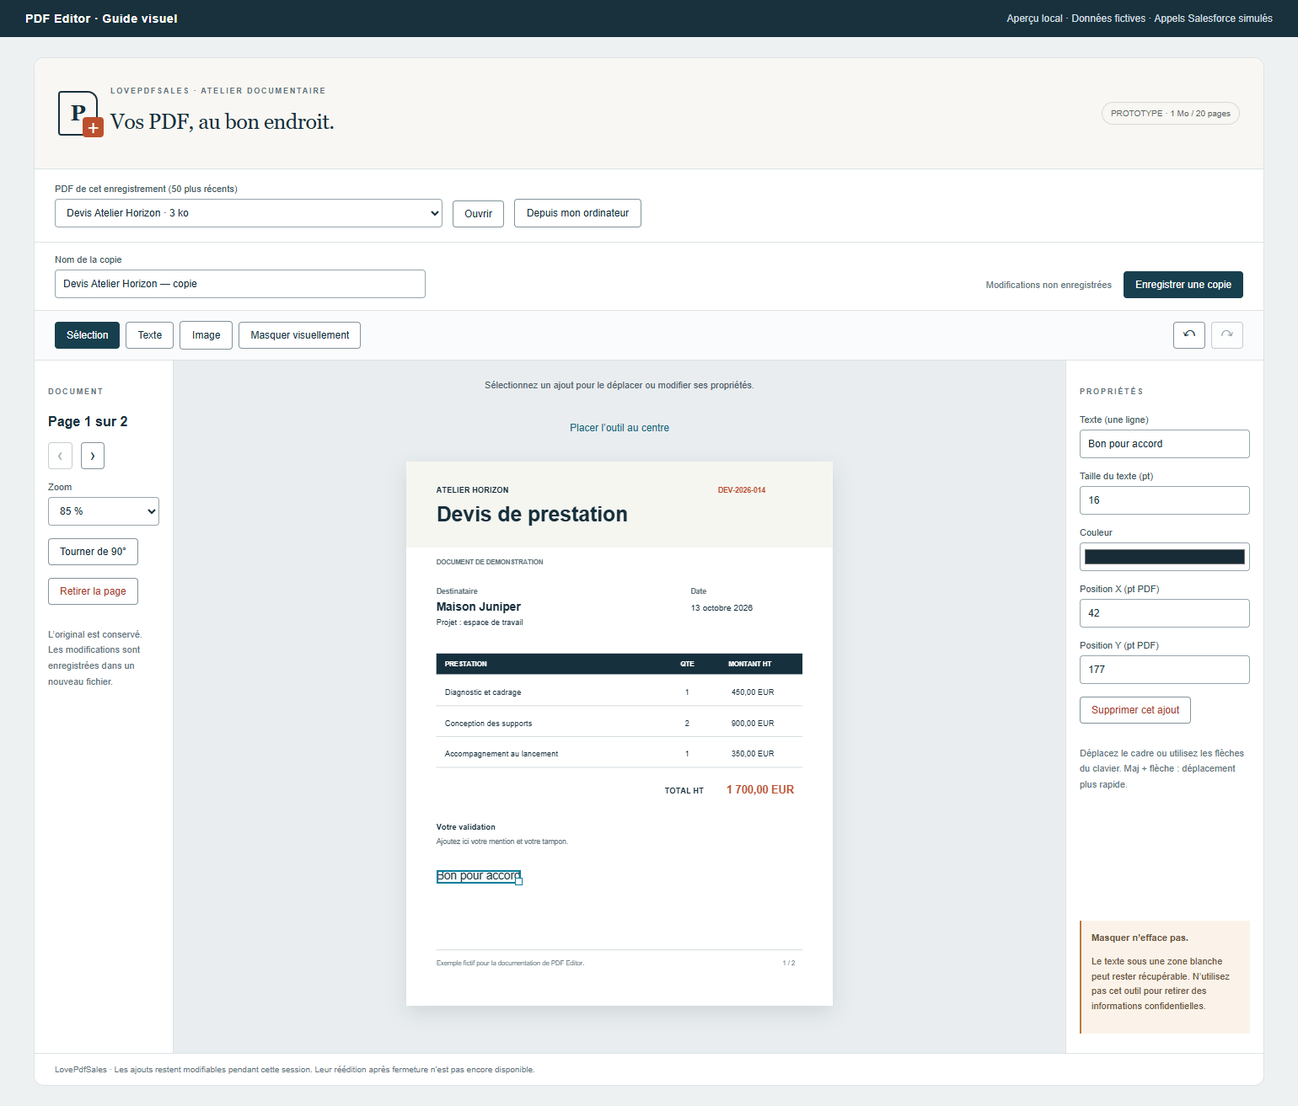
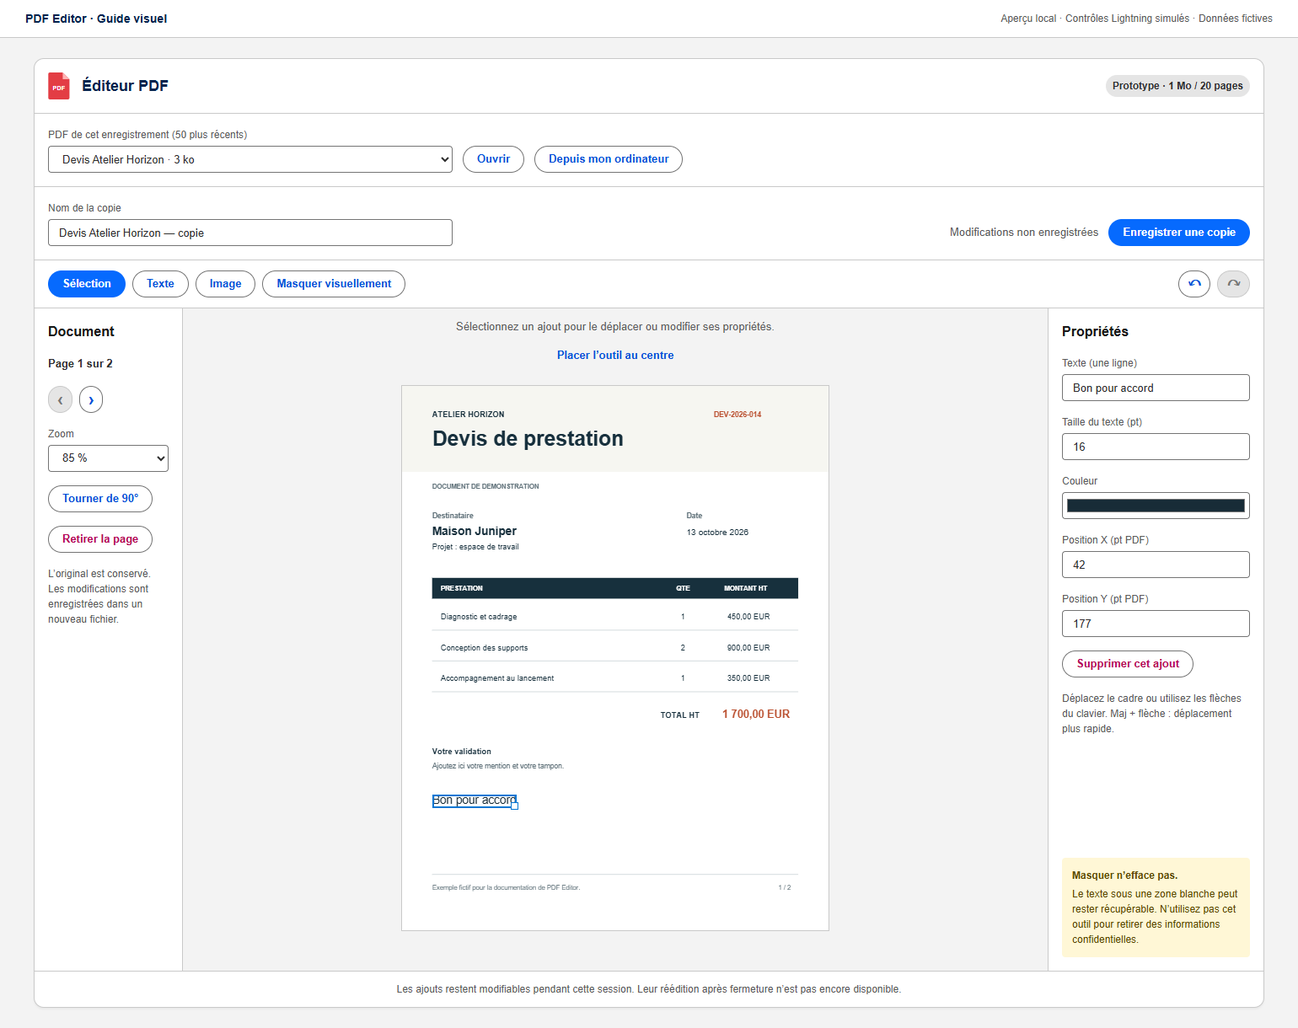
Align PDF editor with native Salesforce styling and refresh screenshots

diff --git a/force-app/main/default/lwc/pdfEditor/pdfEditor.css b/force-app/main/default/lwc/pdfEditor/pdfEditor.css
@@ -1,59 +1,69 @@
-:host { display: block; --ink: #18313c; --muted: #64747c; --line: #dce3e5; --accent: #bc502e; --slds-c-button-brand-color-background: #183f4e; --slds-c-button-brand-color-border: #183f4e; --slds-c-button-brand-color-background-hover: #102e39; }
-.editor { color: var(--ink); background: #fff; border: 1px solid var(--line); border-radius: 12px; overflow: hidden; font-family: 'Salesforce Sans', sans-serif; }
-.masthead { display: flex; align-items: center; justify-content: space-between; gap: 20px; padding: 25px 28px; background: #f8f7f3; border-bottom: 1px solid var(--line); }
-.brand { display: flex; align-items: center; gap: 15px; }
-.brand-mark { position: relative; display: grid; place-items: center; width: 43px; height: 49px; border: 2px solid var(--ink); border-radius: 4px 12px 4px 4px; font: bold 26px Georgia, serif; }
-.brand-mark span { position: absolute; right: -9px; bottom: -4px; background: var(--accent); color: white; padding: 0 5px; border-radius: 4px; font-size: 21px; }
-.eyebrow { font-size: 9px; font-weight: 700; letter-spacing: 1.8px; color: var(--muted); margin-bottom: 7px; }
-h1 { font: 25px Georgia, serif; letter-spacing: -.5px; }
-.badge { font-size: 10px; padding: 7px 10px; border: 1px solid #d7dad4; border-radius: 20px; white-space: nowrap; color: #5c665f; }
-.source-bar { display: flex; align-items: end; gap: 12px; padding: 17px 24px; border-bottom: 1px solid var(--line); }
-.source-picker { flex: 1; max-width: 460px; }
-.file-control { position: relative; display: inline-flex; align-items: center; justify-content: center; min-height: 32px; padding: 0 14px; border: 1px solid #82939b; border-radius: 4px; font-size: 12px; background: white; cursor: pointer; white-space: nowrap; overflow: hidden; }
-.file-control input { position: absolute; inset: 0; width: 100%; height: 100%; opacity: 0; cursor: pointer; }
-.file-control:focus-within { outline: 2px solid #0076a8; outline-offset: 2px; }
-.file-control:has(input:disabled) { opacity: .5; cursor: default; }
-.document-bar { display: flex; justify-content: space-between; align-items: end; gap: 20px; padding: 14px 24px; }
-.document-name { flex: 1; max-width: 440px; }
-.save-group { display: flex; align-items: center; gap: 14px; }
-.document-status { color: var(--muted); font-size: 11px; }
-.toolbar { display: flex; align-items: center; flex-wrap: wrap; gap: 7px; padding: 12px 24px; border-block: 1px solid var(--line); background: #fafbfc; }
+/* Base components own their appearance. Consume the org's global hooks for
+   the PDF workspace; never override SLDS component or global hooks. */
+:host {
+    display: block;
+    --pdf-surface: var(--slds-g-color-surface-container-1, #fff);
+    --pdf-canvas: var(--slds-g-color-surface-container-2, #f3f3f3);
+    --pdf-border: var(--slds-g-color-border-1, #c9c9c9);
+    --pdf-text: var(--slds-g-color-on-surface-2, #2e2e2e);
+    --pdf-muted: var(--slds-g-color-on-surface-1, #5c5c5c);
+    --pdf-accent: var(--slds-g-color-border-accent-1, #0176d3);
+    color: var(--pdf-text);
+    font-family: inherit;
+    font-size: 0.8125rem;
+    line-height: 1.5;
+}
+p { margin: 0; }
+.editor { background: var(--pdf-surface); }
+.source-bar, .document-bar { display: flex; align-items: end; flex-wrap: wrap; gap: var(--slds-g-spacing-3, 0.75rem); padding: var(--slds-g-spacing-4, 1rem); }
+.source-bar { border-block: 1px solid var(--pdf-border); }
+.source-picker { flex: 1; min-width: 15rem; max-width: 30rem; }
+.document-bar { justify-content: space-between; }
+.document-name { flex: 1; min-width: 15rem; max-width: 30rem; }
+.save-group { display: flex; align-items: center; flex-wrap: wrap; gap: var(--slds-g-spacing-3, 0.75rem); }
+.document-status, .muted, .session-note { color: var(--pdf-muted); }
+.toolbar { display: flex; align-items: center; flex-wrap: wrap; gap: var(--slds-g-spacing-2, 0.5rem); padding: var(--slds-g-spacing-3, 0.75rem) var(--slds-g-spacing-4, 1rem); border-block: 1px solid var(--pdf-border); }
 .toolbar-space { flex: 1; }
-.workspace { display: grid; grid-template-columns: 165px minmax(200px, 1fr) 235px; min-height: 580px; }
-.page-panel, .properties { padding: 23px 16px; display: flex; flex-direction: column; gap: 15px; }
-.page-panel { border-right: 1px solid var(--line); }
-.properties { border-left: 1px solid var(--line); }
-.page-controls { display: flex; gap: 10px; }
-.muted { color: var(--muted); font-size: 11px; line-height: 1.7; }
-.canvas-panel { background-color: #e9edef; background-image: radial-gradient(#ccd5d9 .7px, transparent .7px); background-size: 12px 12px; padding: 12px 0 24px; min-width: 0; position: relative; }
-.placement-hint { text-align: center; font-size: 11px; padding: 0 16px; min-height: 30px; color: #4d616c; }
-.center-action { display: block; text-align: center; margin-bottom: 12px; }
-.canvas-scroll { overflow: auto; max-height: 780px; padding: 12px 24px 32px; }
-.page-stage { position: relative; margin: 0 auto; background: white; box-shadow: 0 8px 24px #17303d20; }
+.workspace { display: grid; grid-template-columns: 11rem minmax(200px, 1fr) 16rem; min-height: 36rem; }
+.page-panel, .properties { padding: var(--slds-g-spacing-4, 1rem); display: flex; flex-direction: column; gap: var(--slds-g-spacing-4, 1rem); min-width: 0; }
+.page-panel { border-right: 1px solid var(--pdf-border); }
+.properties { border-left: 1px solid var(--pdf-border); }
+.panel-heading { margin: 0; font-size: 1rem; font-weight: 700; color: var(--slds-g-color-on-surface-3, #181818); }
+.page-controls { display: flex; gap: var(--slds-g-spacing-2, 0.5rem); }
+.muted, .session-note { font-size: 0.75rem; }
+.canvas-panel { background: var(--pdf-canvas); padding-block: var(--slds-g-spacing-3, 0.75rem) var(--slds-g-spacing-4, 1rem); min-width: 0; }
+.placement-hint { text-align: center; padding-inline: var(--slds-g-spacing-4, 1rem); color: var(--pdf-muted); }
+.center-action { display: block; text-align: center; margin-block: var(--slds-g-spacing-2, 0.5rem); }
+.canvas-scroll { overflow: auto; max-height: 49rem; padding: var(--slds-g-spacing-3, 0.75rem) var(--slds-g-spacing-4, 1rem) var(--slds-g-spacing-6, 2rem); }
+/* The PDF paper keeps its original colors independently of the org theme. */
+.page-stage { position: relative; margin: 0 auto; background: #fff; box-shadow: 0 0 0 1px var(--pdf-border); }
 canvas { display: block; }
 .element { position: absolute; background: transparent; border: 1px solid transparent; padding: 0; cursor: move; touch-action: none; }
-.element:hover { border: 1px dashed #097e9c; background: #168daf0a; }
-.element.selected { border: 2px solid #087d9b; background: #0b80920b; }
-.element:focus-visible { outline: 3px solid #bc502e; outline-offset: 3px; }
-.element.selected::after { content: ''; position: absolute; width: 7px; height: 7px; right: -4px; bottom: -4px; background: #fff; border: 1px solid #087d9b; }
-.property-empty { margin: 16px 0 30px; font-size: 13px; line-height: 1.7; color: var(--muted); }
-.property-empty span { font-size: 34px; color: #82959e; }
-.mask-note { margin-top: auto; background: #fbf3e9; border-left: 2px solid #bc7940; padding: 12px; font-size: 11px; line-height: 1.6; color: #6c533b; }
-.mask-note strong { display: block; margin-bottom: 4px; }
-.notice { padding: 13px 24px; font-size: 13px; display: flex; align-items: center; justify-content: space-between; gap: 10px; }
-.error { background: #fff0ed; color: #9d3226; border-bottom: 1px solid #eac8c1; }
-.success { background: #e9f4ee; color: #246744; }
-.loading, .render-status { padding: 6px 24px; font-size: 12px; background: #e6f0f6; color: #164d67; }
-.empty-state { padding: 60px 24px; text-align: center; background: linear-gradient(160deg, #fff 35%, #f5f5f0); }
-.empty-state h2 { font: 38px/1.15 Georgia, serif; letter-spacing: -1px; margin: 15px 0; }
-.empty-state > p:not(.eyebrow) { color: var(--muted); line-height: 1.8; font-size: 13px; }
-.paper-symbol { position: relative; width: 74px; height: 90px; border: 1px solid #aebdc4; border-radius: 3px 18px 3px 3px; margin: 0 auto 30px; padding: 13px 10px; text-align: left; transform: rotate(-6deg); box-shadow: 8px 8px 0 #ecede7; }
-.paper-symbol span { font-size: 10px; font-weight: 700; color: var(--accent); letter-spacing: 1px; }
-.paper-symbol i { display: block; height: 2px; background: #c4cfd4; margin: 9px 0; }
-.paper-symbol i:last-of-type { width: 65%; }
-.paper-symbol b { position: absolute; right: -12px; bottom: 7px; width: 28px; height: 28px; background: var(--ink); color: white; border-radius: 50%; text-align: center; font-size: 22px; }
-.capabilities { display: flex; justify-content: center; flex-wrap: wrap; gap: 20px; font-size: 11px; margin-top: 26px; }
-.capabilities span::before { content: '✓'; color: #39735e; margin-right: 6px; }
-footer { padding: 13px 24px; border-top: 1px solid var(--line); color: var(--muted); font-size: 10px; }
-@media (max-width: 1050px) { .workspace { grid-template-columns: 145px minmax(180px, 1fr); } .properties { grid-column: 1 / -1; border-top: 1px solid var(--line); border-left: 0; display: grid; grid-template-columns: repeat(3, minmax(100px, 1fr)); } .save-group { flex-direction: column; align-items: end; gap: 5px; } .badge { display: none; } }
-@media (max-width: 650px) { .masthead, .source-bar, .document-bar { padding: 16px; flex-wrap: wrap; } .source-picker, .document-name { flex-basis: 100%; max-width: none; } .workspace { grid-template-columns: 1fr; } .page-panel { flex-direction: row; flex-wrap: wrap; border-right: 0; } .page-panel .muted { display: none; } .properties { grid-template-columns: 1fr 1fr; } .toolbar { padding: 10px 16px; } h1 { font-size: 22px; } }
+.element:hover { border: 1px dashed var(--pdf-accent); }
+.element.selected { border: 2px solid var(--pdf-accent); }
+.element:focus-visible { outline: 2px solid var(--pdf-accent); outline-offset: 3px; }
+.element.selected::after { content: ''; position: absolute; width: 7px; height: 7px; right: -4px; bottom: -4px; background: var(--pdf-surface); border: 1px solid var(--pdf-accent); }
+.property-empty { color: var(--pdf-muted); }
+.mask-note { margin-top: auto; background: var(--slds-g-color-warning-container-1, #fff7d6); color: var(--slds-g-color-on-warning-1, #5c4b00); border-radius: var(--slds-g-radius-border-2, 0.25rem); padding: var(--slds-g-spacing-3, 0.75rem); font-size: 0.75rem; }
+.mask-note strong { display: block; margin-bottom: var(--slds-g-spacing-1, 0.25rem); }
+.notice { padding: var(--slds-g-spacing-3, 0.75rem) var(--slds-g-spacing-4, 1rem); display: flex; flex-wrap: wrap; align-items: center; justify-content: space-between; gap: var(--slds-g-spacing-2, 0.5rem); background: var(--slds-g-color-info-container-1, #eef4ff); color: var(--slds-g-color-on-info-1, #014486); }
+.error { background: var(--slds-g-color-error-container-1, #fef1ee); color: var(--slds-g-color-on-error-1, #8e030f); }
+.success { background: var(--slds-g-color-success-container-1, #ebf7e6); color: var(--slds-g-color-on-success-1, #194e31); }
+.loading, .render-status { padding: var(--slds-g-spacing-2, 0.5rem) var(--slds-g-spacing-4, 1rem); color: var(--pdf-muted); }
+.empty-state { padding: var(--slds-g-spacing-8, 4rem) var(--slds-g-spacing-4, 1rem); text-align: center; }
+.empty-state h2 { font-size: 1.25rem; font-weight: 700; color: var(--slds-g-color-on-surface-3, #181818); margin-block: var(--slds-g-spacing-4, 1rem) var(--slds-g-spacing-2, 0.5rem); }
+.empty-state p { color: var(--pdf-muted); }
+.capabilities { display: flex; justify-content: center; flex-wrap: wrap; gap: var(--slds-g-spacing-2, 0.5rem); margin-top: var(--slds-g-spacing-4, 1rem); }
+@media (max-width: 1050px) {
+    .workspace { grid-template-columns: 11rem minmax(180px, 1fr); }
+    .properties { grid-column: 1 / -1; border-top: 1px solid var(--pdf-border); border-left: 0; display: grid; grid-template-columns: repeat(3, minmax(100px, 1fr)); align-items: start; }
+    .properties .panel-heading, .mask-note { grid-column: 1 / -1; }
+    .mask-note { margin-top: 0; }
+}
+@media (max-width: 650px) {
+    .source-picker, .document-name { flex-basis: 100%; min-width: 0; max-width: none; }
+    .workspace { grid-template-columns: minmax(0, 1fr); }
+    .page-panel { flex-direction: row; align-items: center; flex-wrap: wrap; border-right: 0; border-bottom: 1px solid var(--pdf-border); }
+    .page-panel .panel-heading, .page-panel .muted { flex-basis: 100%; }
+    .properties { grid-template-columns: minmax(0, 1fr); }
+}

diff --git a/force-app/main/default/lwc/pdfEditor/pdfEditor.html b/force-app/main/default/lwc/pdfEditor/pdfEditor.html
@@ -1,9 +1,7 @@
 <template>
-    <section class="editor" aria-label="LovePdfSales — Éditeur PDF">
-        <header class="masthead">
-            <div class="brand"><span class="brand-mark" aria-hidden="true">P<span>+</span></span><div><p class="eyebrow">LOVEPDFSALES · ATELIER DOCUMENTAIRE</p><h1>Vos PDF, au bon endroit.</h1></div></div>
-            <span class="badge">PROTOTYPE · 1 Mo / 20 pages</span>
-        </header>
+    <lightning-card title="Éditeur PDF" icon-name="doctype:pdf">
+        <lightning-badge slot="actions" label="Prototype · 1 Mo / 20 pages"></lightning-badge>
+        <section class="editor" aria-label="Éditeur PDF">
         <div lwc:if={message} class="notice error" role="alert">{message}</div>
         <div lwc:if={success} class="notice success" role="status">{success}<lightning-button lwc:if={savedDocumentId} label="Voir la copie" variant="base" onclick={handleViewSaved}></lightning-button></div>
         <div lwc:if={busy} class="loading" role="status">Traitement en cours…</div>
@@ -12,7 +10,8 @@
         <div class="source-bar">
             <div class="source-picker"><lightning-combobox label="PDF de cet enregistrement (50 plus récents)" placeholder="Choisir un fichier Salesforce" value={selectedFile} options={files} onchange={handleFileSelection} disabled={disabled}></lightning-combobox></div>
             <lightning-button label="Ouvrir" onclick={handleOpenSalesforce} disabled={openDisabled}></lightning-button>
-            <label class="file-control">Depuis mon ordinateur<input type="file" accept="application/pdf,.pdf" onchange={handleLocalFile} disabled={disabled} aria-label="Ouvrir un PDF depuis mon ordinateur" /></label>
+            <lightning-button label="Depuis mon ordinateur" icon-name="utility:upload" onclick={handleChooseLocalFile} disabled={disabled}></lightning-button>
+            <input class="local-file" type="file" accept="application/pdf,.pdf" onchange={handleLocalFile} disabled={disabled} aria-label="Ouvrir un PDF depuis mon ordinateur" hidden />
         </div>
         <template lwc:if={hasDocument}>
             <div class="document-bar">
@@ -22,7 +21,8 @@
             <div class="toolbar" role="group" aria-label="Outils d’édition">
                 <lightning-button label="Sélection" data-tool="select" variant={selectVariant} onclick={handleTool} disabled={disabled}></lightning-button>
                 <lightning-button label="Texte" data-tool="text" variant={textVariant} onclick={handleTool} disabled={disabled}></lightning-button>
-                <label class="file-control small">Image<input type="file" accept="image/png,image/jpeg" onchange={handleImage} disabled={disabled} aria-label="Ajouter une image PNG ou JPEG" /></label>
+                <lightning-button label="Image" icon-name="utility:image" onclick={handleChooseImage} disabled={disabled}></lightning-button>
+                <input class="image-file" type="file" accept="image/png,image/jpeg" onchange={handleImage} disabled={disabled} aria-label="Ajouter une image PNG ou JPEG" hidden />
                 <lightning-button label="Masquer visuellement" data-tool="mask" variant={maskVariant} onclick={handleTool} disabled={disabled}></lightning-button>
                 <span class="toolbar-space"></span>
                 <lightning-button-icon icon-name="utility:undo" alternative-text="Annuler" onclick={handleUndo} disabled={undoDisabled}></lightning-button-icon>
@@ -30,7 +30,7 @@
             </div>
             <div class="workspace">
                 <aside class="page-panel" aria-label="Navigation des pages">
-                    <p class="eyebrow">DOCUMENT</p><strong>{pageLabel}</strong>
+                    <h2 class="panel-heading">Document</h2><strong>{pageLabel}</strong>
                     <div class="page-controls"><lightning-button-icon icon-name="utility:chevronleft" alternative-text="Page précédente" onclick={handlePrevious} disabled={previousDisabled}></lightning-button-icon><lightning-button-icon icon-name="utility:chevronright" alternative-text="Page suivante" onclick={handleNext} disabled={nextDisabled}></lightning-button-icon></div>
                     <lightning-combobox label="Zoom" value={zoomValue} options={zoomOptions} onchange={handleZoom} disabled={disabled}></lightning-combobox>
                     <lightning-button label="Tourner de 90°" onclick={handleRotate} disabled={disabled}></lightning-button>
@@ -51,7 +51,7 @@
                     </div>
                 </div>
                 <aside class="properties" aria-label="Propriétés de l’ajout sélectionné">
-                    <p class="eyebrow">PROPRIÉTÉS</p>
+                    <h2 class="panel-heading">Propriétés</h2>
                     <template lwc:if={selected}>
                         <template lwc:if={selectedIsText}>
                             <lightning-input label="Texte (une ligne)" value={selected.text} data-property="text" maxlength="200" oncommit={handleProperty} disabled={disabled}></lightning-input>
@@ -67,14 +67,21 @@
                         <lightning-button label="Supprimer cet ajout" variant="destructive-text" onclick={handleRemove} disabled={disabled}></lightning-button>
                         <p class="muted">Déplacez le cadre ou utilisez les flèches du clavier. Maj + flèche : déplacement plus rapide.</p>
                     </template>
-                    <template lwc:else><div class="property-empty"><span aria-hidden="true">↖</span><p>Sélectionnez un ajout sur la page pour le modifier.</p></div></template>
+                    <template lwc:else><p class="property-empty">Sélectionnez un ajout sur la page pour le modifier.</p></template>
                     <div class="mask-note"><strong>Masquer n’efface pas.</strong><p>Le texte sous une zone blanche peut rester récupérable. N’utilisez pas cet outil pour retirer des informations confidentielles.</p></div>
                 </aside>
             </div>
         </template>
         <template lwc:else>
-            <div class="empty-state"><div class="paper-symbol" aria-hidden="true"><span>PDF</span><i></i><i></i><i></i><b>+</b></div><p class="eyebrow">DE L’IDÉE AU DOCUMENT</p><h2>Une note. Un logo.<br />Votre document, complété.</h2><p>Ouvrez un PDF, placez vos ajouts et retrouvez<br />la copie dans les fichiers Salesforce.</p><div class="capabilities"><span>Texte &amp; images</span><span>Rotation des pages</span><span>Original conservé</span></div></div>
+            <div class="empty-state">
+                <lightning-icon icon-name="doctype:pdf" size="large" alternative-text="Document PDF"></lightning-icon>
+                <h2>Ouvrir un document PDF</h2>
+                <p>Sélectionnez un fichier de cet enregistrement ou importez un PDF depuis votre ordinateur.</p>
+                <p>Ajoutez du texte et des images, puis enregistrez une copie dans Salesforce Files.</p>
+                <div class="capabilities"><lightning-badge label="Texte et images"></lightning-badge><lightning-badge label="Rotation des pages"></lightning-badge><lightning-badge label="Original conservé"></lightning-badge></div>
+            </div>
         </template>
-        <footer>LovePdfSales · Les ajouts restent modifiables pendant cette session. Leur réédition après fermeture n’est pas encore disponible.</footer>
-    </section>
+        </section>
+        <p slot="footer" class="session-note">Les ajouts restent modifiables pendant cette session. Leur réédition après fermeture n’est pas encore disponible.</p>
+    </lightning-card>
 </template>

diff --git a/force-app/main/default/lwc/pdfEditor/pdfEditor.js b/force-app/main/default/lwc/pdfEditor/pdfEditor.js
@@ -152,6 +152,12 @@ export default class PdfEditor extends NavigationMixin(LightningElement) {
     }
 
     handleFileSelection(event) { this.selectedFile = event.detail.value; }
+    handleChooseLocalFile() {
+        if (!this.disabled) this.template.querySelector('.local-file').click();
+    }
+    handleChooseImage() {
+        if (!this.disabled) this.template.querySelector('.image-file').click();
+    }
     async handleOpenSalesforce() {
         if (this.disabled || !await this.confirmDiscard()) return;
         this.busy = true;

diff --git a/docs/VALIDATION_PROTOTYPE.md b/docs/VALIDATION_PROTOTYPE.md
@@ -45,3 +45,11 @@ Le premier lot livre l’enrichissement et la sauvegarde d’une copie. L’édi
 Les captures de `docs/screenshots/` sont produites avec `npm run docs:screenshots` : le véritable composant LWC et le bundle PDF s’exécutent ensemble dans Edge, avec des contrôles Lightning simplifiés et des appels Apex simulés. Le script ouvre un devis fictif, ajoute et repositionne une mention et un tampon, puis vérifie la production d’un PDF lors de la sauvegarde simulée. Aucune organisation Salesforce n’est appelée.
 
 Ce parcours a mis en évidence une incompatibilité avec la méthode `convertToViewportRectangle`, absente du viewport PDF.js utilisé. Le composant calcule désormais son cadre de sélection à partir de deux appels à `convertToViewportPoint`. La compilation LWC, les quatre tests du modèle et les cinq tests d’interface ont été relancés avec succès après cette correction. La recette sous Lightning Web Security reste distincte.
+
+## Alignement visuel Salesforce
+
+Le bandeau personnalisé, la police décorative, la palette propre à l’éditeur et les surcharges `--slds-c-button-*` ont été retirés. La carte, les badges, les icônes et les boutons de sélection de fichiers utilisent désormais les composants Lightning natifs. Le CSS des panneaux PDF référence les hooks globaux sémantiques du thème, avec des valeurs de repli. Aucun hook global Salesforce n’est redéfini par le composant.
+
+Après cette refonte : compilation LWC réussie, 4 tests du modèle et 5 tests LWC réussis. Les quatre captures du README ont été régénérées avec le parcours complet texte, image et sauvegarde simulée. Les deux boutons de sélection de fichiers ouvrent le dialogue du navigateur ; un PDF local est également chargé. Le parcours vérifie l’absence de débordement horizontal de la page à 1 024 et 640 pixels de largeur.
+
+Les adaptateurs de documentation donnent un aperçu du placement des contrôles ; ils ne reproduisent pas intégralement les composants Salesforce. La validation Apex indiquée plus haut est antérieure à cette refonte. Le rendu natif sous Cosmos/SLDS 2, les personnalisations de marque et la navigation clavier dans les contrôles natifs doivent être vérifiés en organisation cible.

diff --git a/README.md b/README.md
@@ -2,9 +2,17 @@
 
 Prototype d’éditeur PDF en Lightning Web Component. Il permet de compléter un PDF depuis une page d’enregistrement Salesforce, puis d’enregistrer **une copie** dans Salesforce Files.
 
+## Charte Salesforce et SLDS 2
+
+L’interface utilise les composants natifs `lightning-card`, `lightning-button`, `lightning-button-icon`, `lightning-input`, `lightning-combobox`, `lightning-badge` et `lightning-icon`. Leur apparence est fournie par Salesforce, selon le thème de l’organisation. La police est héritée de la page ; aucune couleur de marque ni surcharge `--slds-c-*` n’est imposée aux contrôles.
+
+Les panneaux, séparateurs et cadres de sélection du PDF consomment les **global styling hooks SLDS** (`--slds-g-*`) pour suivre les couleurs et espacements du thème. Des valeurs de repli permettent l’affichage lorsque ces hooks ne sont pas disponibles. Le document PDF conserve ses propres couleurs.
+
+Pour obtenir l’apparence **SLDS 2**, l’organisation doit utiliser un thème compatible, notamment **Salesforce Cosmos**. Déployer le composant ne change pas le thème de l’organisation. Voir [la comparaison officielle des versions SLDS](https://developer.salesforce.com/docs/platform/lwc/guide/create-components-css-slds1-slds2.html) et [les recommandations Salesforce sur les global styling hooks](https://www.lightningdesignsystem.com/2e1ef8501/v/0/p/777f5a-global-styling-hooks).
+
 ## Comment ça fonctionne
 
-Les captures suivantes montrent le **composant LWC réel et son moteur PDF dans un aperçu local**, avec un devis fictif. Les contrôles Lightning et les appels Salesforce sont simulés pour cette démonstration ; ce ne sont pas des captures d’une organisation de production.
+Les captures suivantes montrent le **composant LWC réel et son moteur PDF dans un aperçu local**, avec un devis fictif. Les contrôles Lightning et les appels Salesforce sont simulés pour cette démonstration ; ce ne sont pas des captures d’une organisation de production. L’aspect exact des contrôles natifs, des icônes et de la typographie dépend du thème Salesforce et reste à vérifier dans votre organisation.
 
 ### 1. Ouvrir un PDF
 
